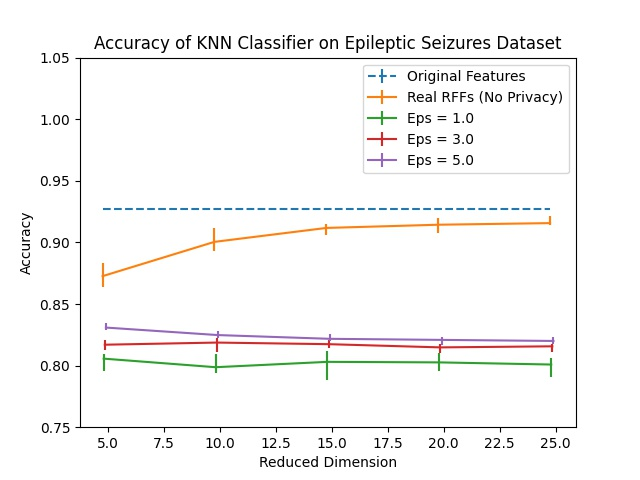
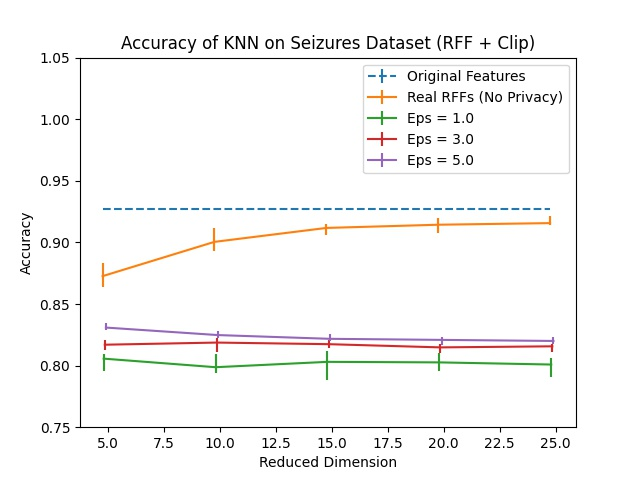
Run some RFF without clipping experiments

Changed region(s): [[0.1562, 0.0625, 0.875, 0.125]]

diff --git a/multi-dim-featcreation/Submission_Plots/Replot.py b/multi-dim-featcreation/Submission_Plots/Replot.py
@@ -2,20 +2,20 @@ import matplotlib.pyplot as plt
 import pandas as pd
 import numpy as np
 
-algs = ['MultiLayerPerceptron']
+algs = ['KNN']
 num_trials = 25
 total_eps_list = [1.0, 2.0, 3.0, 4.0, 5.0]
 for alg in algs:
-	alg_df = pd.read_csv('mnist49_rffrealclip_%s_trials=%i.csv' % (alg.lower(), num_trials))
+	alg_df = pd.read_csv('epileptic_rffrealclip_%s_trials=%i.csv' % (alg.lower(), num_trials))
 	alg_df = alg_df.set_index('Dimension')
 	print(alg_df)
 
-	file = 'mnist49_rffrealclip_%s_trials=%i' % (alg.lower(), num_trials)
+	file = 'epileptic_rffrealclip_%s_trials=%i' % (alg.lower(), num_trials)
 	alg_df.to_csv('%s.csv' % file)
 	shift = -0.25
 
 	# Edit!
-	plt.ylim((0.45, 1.05))
+	plt.ylim((0.75, 1.05))
 	plt.errorbar(alg_df.index + shift, alg_df['Original Features'], \
 		yerr = np.zeros(shape = (2, len(alg_df))), label = 'Original Features', linestyle = 'dashed')
 	# plt.errorbar(alg_df.index + shift, alg_df['PCA'], \
@@ -32,7 +32,7 @@ for alg in algs:
 
 	plt.xlabel("Reduced Dimension")
 	plt.ylabel("Accuracy")
-	plt.title('Accuracy of Two Layer NN on MNIST (4 vs. 9)')
-	plt.legend(loc = "center right")
+	plt.title('Accuracy of KNN on Seizures Dataset (RFF + Clip)')
+	plt.legend(loc = "upper right")
 	plt.savefig('%s.jpg' % file)
 	plt.close()

diff --git a/multi-dim-featcreation/covtype67_all_experiments/covtype67_privaterff_real.py b/multi-dim-featcreation/covtype67_all_experiments/covtype67_privaterff_real.py
@@ -154,7 +154,7 @@ if __name__ == "__main__":
 				eps_val = total_eps # - eps_memb
 
 				dp_join = DP_Join(eps_memb, eps_val, sens_list) 
-				dp_join.join(l_train, f_train_rff, 'Real Clip') 
+				dp_join.join(l_train, f_train_rff, 'Real') 
 
 				for alg in algs:
 					trial_dict[alg]['Eps = %s' % total_eps].append(get_loss(dp_join.features, dp_join.labels, f_test_rff, l_test, alg))
@@ -177,7 +177,7 @@ if __name__ == "__main__":
 		alg_df = alg_df 
 		print(alg_df)
 
-		file = 'covtype67_rffrealclip_%s_trials=%i' % (alg.lower(), num_trials)
+		file = 'covtype67_rffreal_%s_trials=%i' % (alg.lower(), num_trials)
 		alg_df.to_csv('%s.csv' % file)
 		shift = -0.25
 		plt.ylim((0.0, 1.0))

diff --git a/multi-dim-featcreation/epileptic/epileptic_privaterff_real.py b/multi-dim-featcreation/epileptic/epileptic_privaterff_real.py
@@ -155,7 +155,7 @@ if __name__ == "__main__":
 				eps_val = total_eps # - eps_memb
 
 				dp_join = DP_Join(eps_memb, eps_val, sens_list) 
-				dp_join.join(l_train, f_train_rff, 'Real Clip') 
+				dp_join.join(l_train, f_train_rff, 'Real') 
 
 				for alg in algs:
 					trial_dict[alg]['Eps = %s' % total_eps].append(get_loss(dp_join.features, dp_join.labels, f_test_rff, l_test, alg))
@@ -178,7 +178,7 @@ if __name__ == "__main__":
 		alg_df = alg_df 
 		print(alg_df)
 
-		file = 'epileptic_rffrealclip_%s_trials=%i' % (alg.lower(), num_trials)
+		file = 'epileptic_rffreal_%s_trials=%i' % (alg.lower(), num_trials)
 		alg_df.to_csv('%s.csv' % file)
 		shift = -0.25
 		plt.ylim((0.0, 1.0))

diff --git a/multi-dim-featcreation/epileptic/epileptic_privatepca.py b/multi-dim-featcreation/epileptic/epileptic_privatepca.py
@@ -171,7 +171,6 @@ if __name__ == "__main__":
 				dp_join = DP_Join(eps_memb, eps_val, sens_list, 'Real')
 				dp_join.join(l_train, f_train_priv)
 				# Test clipping
-				
 				dp_join.features = np.clip(dp_join.features, a_min = perc05, a_max = perc95)
 				f_test_priv = np.clip(f_test_priv, a_min = perc05, a_max = perc95)
 
